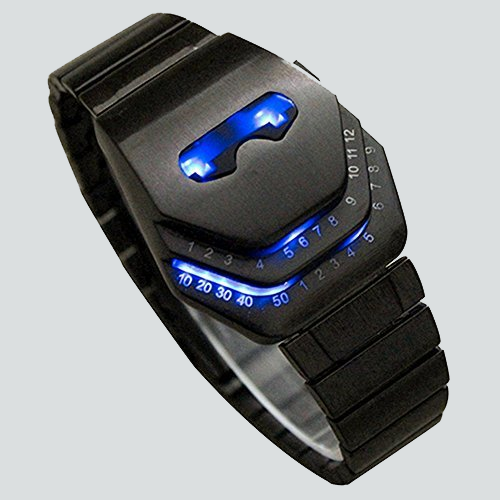
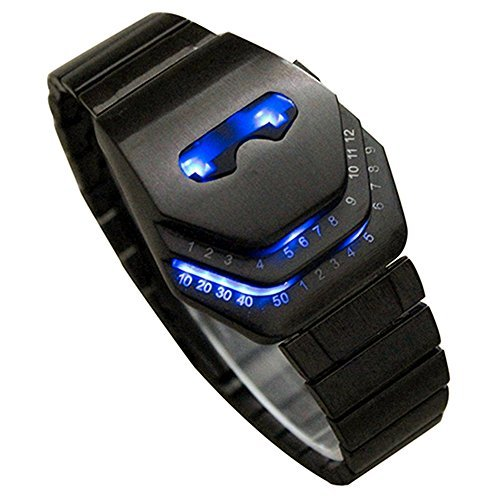
get rid of bg color

diff --git a/css/products.css b/css/products.css
@@ -30,7 +30,7 @@
             margin-right: 10px;
         }
         .navbar a {
-            margin-right: 90px;
+            margin-right: 100px;
         }
 
         
@@ -43,7 +43,6 @@
     .main-product-div {
         display: flex;
         flex-direction: column;
-        background-color: #dbdfe0;
         align-items: center;
         margin-top: 100px;
         margin-left: -10px;
